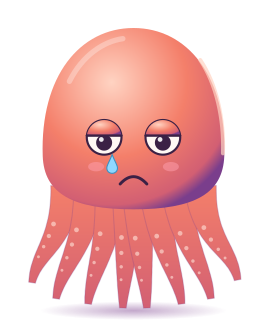
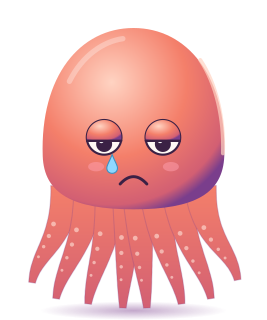
fix(octopilot): tidy the octopus mod after review
Cut the bubble's markdown at word and line boundaries with open markup closed,
and test it under node. Redraw only when shown state changes, keep the first
art frame opaque, time kitchen moods per event as feed.ts does, and ignore the
app-written gpui-kit.d.ts and jsconfig.json. Drop the unused 160 px PNGs.

Changed region(s): [[0.2996, 0.375, 0.4794, 0.5], [0.5393, 0.375, 0.6891, 0.5]]

diff --git a/ai/octopilot/herdr-app/mods/octopilot-octopus/main.js b/ai/octopilot/herdr-app/mods/octopilot-octopus/main.js
@@ -1,13 +1,11 @@
-// The messenger as a reluctant octopus: a floating window with the octopus, a
-// speech bubble holding the orchestrator's last message and the kitchen's last
-// lines. Click the octopus to peek the messenger's terminal, the bubble to read
-// the whole message, – to fold the bubble, ✕ to close.
-// Props: { fixture?, dir?, state_dir?, overlay? }, or for the full-text dialog
-// { full: true, text, status }.
+// The messenger as an octopus: poses from the speech and kitchen state, and a bubble
+// with the last message, the kitchen log and the pan count. Props: { fixture?, dir?, state_dir?, overlay? }.
+// For the full-text dialog: { full: true, text, status, overlay }.
 
 import { View, div, image } from "gpui-kit";
 import { v_flex, h_flex, TextView } from "gpui-base";
 import { exec, readTextFile, run, theme, props, shared, home, window, openOverlay, closeOverlay, checking } from "herdr";
+import { clip } from "./clip.js";
 
 const OCTO_W = 125;
 const OCTO_H = 150;
@@ -15,18 +13,17 @@ const BUBBLE_W = 250;
 const FAST_MS = 2000;
 const SLOW_MS = 10000;
 const TALK_MS = 4000;
-const MOOD_S = 5;
 const DOZE_S = 600;
 const LOG_LINES = 4;
-const MAX_LINES = 6;
-const MAX_CHARS = 280;
 
 const WORD = { working: "working", blocked: "needs you", idle: "idle", done: "finished", offline: "offline", paused: "paused" };
 const DOT = { working: "working", blocked: "blocked", idle: "idle", done: "done", offline: "unknown", paused: "idle" };
-// The kitchen's mood names (scene.ts) as poses; only the first group shows for a while.
-const MOOD_POSE = { happy: "happy", serve: "happy", worried: "worried", sad: "sad", surprised: "surprised", flip: "working", pour: "working", busy: "working", sleep: "sleeping", doze: "doze", idle: "idle" };
-const TRANSIENT = new Set(["happy", "serve", "worried", "sad", "surprised"]);
-// Poses whose frames cross-fade back and forth: [frame names, cycle ms].
+// Kitchen moods (scene.ts) that show a pose for a while; the rest of the moods come from status.
+const MOOD_POSE = { happy: "happy", serve: "happy", worried: "worried", sad: "sad", surprised: "surprised", flip: "working", pour: "working", sleep: "sleeping" };
+// How long each event's mood shows, from feed.ts: by event kind, else by mood for a report.
+const KIND_MS = { tick: 2500, spawn: 2500, sent: 1500, request: 2000, cleanup: 3500, merged: 3500, pause: 2000, resume: 1500, round: 2000, reviewed: 2000, capped: 2500, feedback: 1500, reboot: 2000, decline: 1500, untrack: 1500, detach: 1500, track: 2000 };
+const MOOD_MS = { happy: 4000, worried: 3000, sad: 4500, surprised: 2000, serve: 3500, flip: 2000, pour: 2500, sleep: 2000 };
+// Poses whose second frame fades in and out over the first: [frame names, cycle ms].
 const FLIPS = {
   talking: [["talking-0", "talking-1"], 360],
   working: [["working-0", "working-1"], 1200],
@@ -47,25 +44,20 @@ function pick(prop, sharedKey, fallback) {
 const octopilotDir = () => pick("dir", "octopilot.dir", `${home()}/.dotfiles/ai/octopilot`);
 const stateDir = () => pick("state_dir", "octopilot.state_dir", `${home()}/.local/state/octopilot`);
 
+const artPath = (name) => `mods/octopilot-octopus/art/png/${name}-320.png`;
+
 // The art in mods/octopilot-octopus/art/png, 320 px tall, shown at OCTO_H.
 function art(name) {
-  return image(`mods/octopilot-octopus/art/png/${name}-320.png`).w(OCTO_W).h(OCTO_H).flex_none();
+  return image(artPath(name)).w(OCTO_W).h(OCTO_H).flex_none();
 }
 
-// Two poses cross-fading back and forth forever: native motion, no redraws.
-function flip(names, period) {
-  return div().relative().flex_none().w(OCTO_W).h(OCTO_H).children(
-    names.map((name, i) =>
-      image(`mods/octopilot-octopus/art/png/${name}-320.png`).absolute().top(0).left(0).w(OCTO_W).h(OCTO_H)
-        .loop("opacity", { from: i === 0 ? 1 : 0, to: i === 0 ? 0 : 1, period })));
-}
-
-// Long messages are cut to a few lines; the bubble opens the rest.
-function clip(text) {
-  const lines = text.split("\n");
-  if (lines.length <= MAX_LINES && text.length <= MAX_CHARS) return text;
-  const cut = lines.slice(0, MAX_LINES).join("\n").slice(0, MAX_CHARS).trimEnd();
-  return `${cut} …*more*`;
+// The first frame stays put; the second fades in and out over it, natively.
+function flip([first, second], period) {
+  return div().relative().flex_none().w(OCTO_W).h(OCTO_H).children([
+    image(artPath(first)).w(OCTO_W).h(OCTO_H),
+    image(artPath(second)).absolute().top(0).left(0).w(OCTO_W).h(OCTO_H)
+      .loop("opacity", { from: 0, to: 1, period }),
+  ]);
 }
 
 const pad = (n) => String(n).padStart(2, "0");
@@ -73,6 +65,8 @@ const clock = (at) => {
   const d = new Date(at * 1000);
   return `${pad(d.getHours())}:${pad(d.getMinutes())}`;
 };
+
+const eventMs = (ev) => KIND_MS[ev.kind] ?? MOOD_MS[ev.mood] ?? 0;
 
 export default class Octopus extends View {
   init(_props, cx) {
@@ -84,27 +78,41 @@ export default class Octopus extends View {
     this.talkGen = 0;
     this.sigh = false;
     this.collapsed = false;
+    this.sig = null;
+    this.shownMood = null;
     if (checking() || props()?.full) return;
     this.watch(cx);
     this.sighs(cx);
   }
 
   // Polls the messenger and the kitchen: fast while the window shows, slow while hidden.
+  // Redraws only when something shown changed, and once when a kitchen mood ends.
   watch(cx) {
     cx.spawn(async (cx) => {
       for (;;) {
         await this.poll(cx);
-        cx.notify();
+        const sig = this.signature();
+        const mood = this.activeMood();
+        if (sig !== this.sig || (this.shownMood && !mood)) cx.notify();
+        this.sig = sig;
+        this.shownMood = mood;
         await cx.sleep(window()?.visible === false ? SLOW_MS : FAST_MS);
       }
     });
   }
 
-  // An occasional sigh: the second idle frame for a moment.
+  signature() {
+    const h = this.view?.header;
+    return [this.seq, this.data?.status, this.data?.paused, this.error, this.newest()?.at,
+      h?.active, h?.max_active, h?.paused].join("|");
+  }
+
+  // An occasional sigh: the second idle frame for a moment, only while idle and shown.
   sighs(cx) {
     cx.spawn(async (cx) => {
       for (;;) {
         await cx.sleep(7000 + Math.random() * 5000);
+        if (window()?.visible === false || this.pose() !== "idle") continue;
         this.sigh = true;
         cx.notify();
         await cx.sleep(1600);
@@ -173,17 +181,24 @@ export default class Octopus extends View {
     return best;
   }
 
+  // The pose of the newest kitchen event, while its time is not up.
+  activeMood() {
+    const ev = this.newest();
+    if (!ev || !MOOD_POSE[ev.mood]) return null;
+    return Date.now() / 1000 - ev.at < eventMs(ev) / 1000 ? MOOD_POSE[ev.mood] : null;
+  }
+
   pose() {
     if (this.error || this.data?.status === "offline") return "offline";
     if (!this.data) return "idle";
     if (this.talking) return "talking";
     if (this.data.status === "blocked") return "blocked";
     if (this.data.paused || this.view?.header?.paused) return "sleeping";
-    const ev = this.newest();
-    const age = ev ? Date.now() / 1000 - ev.at : 0;
-    if (ev && TRANSIENT.has(ev.mood) && age < MOOD_S) return MOOD_POSE[ev.mood];
+    const mood = this.activeMood();
+    if (mood) return mood;
     if (this.data.status === "working") return "working";
-    if (ev && age > DOZE_S) return "doze";
+    const ev = this.newest();
+    if (ev && Date.now() / 1000 - ev.at > DOZE_S) return "doze";
     return "idle";
   }
 
@@ -238,12 +253,12 @@ export default class Octopus extends View {
     const muted = (text) => div().text_size(12).text_color(t.muted).child(text);
     if (this.error) return muted(`Can't reach the messenger: ${this.error}`);
     if (!d) return muted("Waiting for the messenger…");
-    if (!d.text) return muted("The messenger hasn't said anything yet.");
+    if (!d.text) return muted(d.status === "offline" ? "The messenger is offline." : "The messenger hasn't said anything yet.");
     return div().text_size(13).text_color(t.foreground)
       .child(TextView.markdown("octopilot-speech", clip(d.text)).raw_html(false));
   }
 
-  // The last kitchen lines, oldest dim, the newest green (good), red (bad) or plain.
+  // The last kitchen lines: older ones dim, the newest green (good), red (bad) or plain.
   logLines(t) {
     const lines = [...this.kitchen()].sort((a, b) => a.at - b.at).slice(-LOG_LINES);
     if (!lines.length) return null;
@@ -281,7 +296,7 @@ export default class Octopus extends View {
               h_flex().gap(2).items_center().children([
                 pans ? div().text_size(11).text_color(t.dim).child(pans) : null,
                 this.button(t, "fold", "–", (cx) => { this.collapsed = true; cx.notify(); }),
-                this.button(t, "close", "✕", () => closeOverlay(p.overlay)),
+                p.overlay ? this.button(t, "close", "✕", () => closeOverlay(p.overlay)) : null,
               ].filter(Boolean)),
             ]),
             this.bubbleBody(t),
@@ -293,10 +308,11 @@ export default class Octopus extends View {
   renderFull(p) {
     const t = theme();
     return v_flex().size_full().p(16).gap(10).bg(t.popover).children([
-      h_flex().justify_between().items_center().flex_none()
-        .child(div().text_size(13).font_semibold().text_color(t.foreground)
-          .child(`Messenger · ${WORD[p.status] ?? p.status ?? ""}`))
-        .child(this.button(t, "close", "✕", () => closeOverlay(p.overlay))),
+      h_flex().justify_between().items_center().flex_none().children([
+        div().text_size(13).font_semibold().text_color(t.foreground)
+          .child(`Messenger · ${WORD[p.status] ?? p.status ?? ""}`),
+        p.overlay ? this.button(t, "close", "✕", () => closeOverlay(p.overlay)) : null,
+      ].filter(Boolean)),
       div().id("speech-full").flex_1().overflow_y_scrollbar().text_size(13).text_color(t.foreground)
         .child(TextView.markdown("octopilot-speech-full", p.text ?? "").raw_html(false)),
     ]);

diff --git a/ai/octopilot/herdr-app/mods/octopilot-octopus/clip.js b/ai/octopilot/herdr-app/mods/octopilot-octopus/clip.js
@@ -1,0 +1,23 @@
+// Cuts a markdown message for the bubble at a word or line boundary, closing any
+// fence or emphasis the cut left open, so the rest still renders.
+export const MAX_LINES = 6;
+export const MAX_CHARS = 280;
+
+const count = (text, marker) => text.split(marker).length - 1;
+
+export function clip(text, maxLines = MAX_LINES, maxChars = MAX_CHARS) {
+  if (text.split("\n").length <= maxLines && text.length <= maxChars) return text;
+  let cut = text.split("\n").slice(0, maxLines).join("\n");
+  if (cut.length > maxChars) {
+    cut = cut.slice(0, maxChars);
+    // Back up to the last space when the cut landed inside a word.
+    const word = cut.search(/\s\S*$/);
+    if (word > maxChars / 2) cut = cut.slice(0, word);
+  }
+  cut = cut.trimEnd();
+  if (count(cut, "```") % 2) return `${cut}\n\`\`\`\n…*more*`;
+  for (const marker of ["`", "**", "*", "_"]) {
+    if (count(cut, marker) % 2) cut = cut.slice(0, cut.lastIndexOf(marker)).trimEnd();
+  }
+  return `${cut} …*more*`;
+}

diff --git a/ai/octopilot/herdr-app/mods/octopilot-octopus/art/make.py b/ai/octopilot/herdr-app/mods/octopilot-octopus/art/make.py
@@ -2,8 +2,7 @@
 """Draws the messenger octopus poses as SVG, one file per frame.
 
 `python3 make.py` rewrites art/svg/*.svg. `--png` also renders
-art/png/<name>-160.png and -320.png (160 and 320 px tall) with inkscape,
-or magick when inkscape is missing.
+art/png/<name>-320.png (320 px tall) with inkscape, or magick when inkscape is missing.
 """
 
 import math
@@ -40,17 +39,17 @@ FRAMES = {
                       ends={0: (18, 112), 7: (188, 92)}),
     "blocked-1": dict(lid=0, pupil=(-1.5, 0), pupil_r=3.5, mouth="o", alarm=True, dy=-1,
                       ends={0: (16, 116), 7: (184, 100)}),
-    "sleeping-0": dict(closed=True, mouth="flat", dy=0, z=[(150, 62, 9), (164, 46, 6)]),
-    "sleeping-1": dict(closed=True, mouth="flat", dy=-2, z=[(152, 54, 12), (168, 34, 8)]),
+    "sleeping-0": dict(closed=True, mouth="flat", dy=0, z=[(146, 66, 12), (164, 44, 9)]),
+    "sleeping-1": dict(closed=True, mouth="flat", dy=-2, z=[(148, 56, 16), (168, 30, 12)]),
     "offline-0": dict(closed=True, mouth="flat", palette="grey"),
     "happy-0": dict(eye="happy", mouth="smile", ends={0: (18, 176), 7: (182, 184)}),
     "happy-1": dict(eye="happy", mouth="smile", ends={0: (24, 164), 7: (176, 168)}, sparkle=True, dy=-2),
     "worried-0": dict(lid=0.15, pupil=(-1.5, -2), brows=True, mouth="wavy"),
     "worried-1": dict(lid=0.15, pupil=(-1.5, -2), brows=True, mouth="wavy", dy=-1, sweat=True),
-    "sad-0": dict(lid=0.45, pupil=(0, 4), mouth="frown_deep"),
-    "sad-1": dict(lid=0.45, pupil=(0, 4), mouth="frown_deep", tear=True, dy=-1),
-    "surprised-0": dict(lid=0, pupil_r=3.5, mouth="o_big", alarm=True),
-    "surprised-1": dict(lid=0, pupil=(0, -1), pupil_r=4.5, mouth="o_big", alarm=True, dy=-2),
+    "sad-0": dict(lid=0.6, pupil=(0, 5), mouth="frown_deep", tear=True),
+    "sad-1": dict(lid=0.6, pupil=(0, 5), mouth="frown_deep", tear=True, dy=-1),
+    "surprised-0": dict(lid=0, pupil_r=3.5, mouth="o_big", burst=True),
+    "surprised-1": dict(lid=0, pupil=(0, -1), pupil_r=4.5, mouth="o_big", burst=True, dy=-2),
     "doze-0": dict(closed=True, mouth="flat", dy=-1),
 }
 
@@ -154,6 +153,12 @@ def sparkle(p):
             f'stroke="{p["ink"]}" stroke-width=".6"/>')
 
 
+def burst(p):
+    # Pop lines round the head: the surprise mark, where blocked gets the "!".
+    return (f'<path d="M150 40 L143 34 M160 30 L157 21 M172 30 L178 22 M182 42 L190 38" fill="none" '
+            f'stroke="{p["ink"]}" stroke-width="2.2" stroke-linecap="round"/>')
+
+
 def sweat():
     return ('<path d="M150 56 C156 66 160 72 160 78 A10 10 0 0 1 140 78 C140 72 144 66 150 56Z" '
             'fill="#8fd8ff" stroke="#3a8fc0" stroke-width=".8"/>'
@@ -170,7 +175,7 @@ def zs(items, p):
     out = []
     for x, y, s in items:
         out.append(f'<path d="M{x} {y} h{s} l-{s} {s} h{s}" fill="none" stroke="{p["ink"]}" '
-                   f'stroke-width="2" stroke-linejoin="round" opacity=".75"/>')
+                   f'stroke-width="2.4" stroke-linejoin="round" opacity=".75"/>')
     return "".join(out)
 
 
@@ -206,6 +211,8 @@ def draw(frame):
         extras.append(sweat())
     if frame.get("alarm"):
         extras.append(alarm(p))
+    if frame.get("burst"):
+        extras.append(burst(p))
     if frame.get("z"):
         extras.append(zs(frame["z"], p))
     return "\n".join([
@@ -253,11 +260,9 @@ def main(argv):
     if "--png" in argv:
         os.makedirs(png_dir, exist_ok=True)
         for name in FRAMES:
-            svg = os.path.join(svg_dir, f"{name}.svg")
-            for height in (160, 320):
-                png = os.path.join(png_dir, f"{name}-{height}.png")
-                render(svg, png, height)
-                print(png)
+            png = os.path.join(png_dir, f"{name}-320.png")
+            render(os.path.join(svg_dir, f"{name}.svg"), png, 320)
+            print(png)
 
 
 if __name__ == "__main__":

diff --git a/ai/octopilot/herdr-app/mods/octopilot-octopus/README.md b/ai/octopilot/herdr-app/mods/octopilot-octopus/README.md
@@ -27,7 +27,7 @@ Props, all optional: `dir` (the octopilot code dir, default `~/.dotfiles/ai/octo
 the reason in the bubble), `happy`, `worried`, `sad`, `surprised` (kitchen moods, the
 newest event for 5 s) and `doze` (no kitchen event for 10 minutes).
 The art is `art/make.py`: `python3 art/make.py --png` rewrites `art/svg/` and renders
-`art/png/<pose>-<n>-{160,320}.png` (inkscape, or magick without it).
+`art/png/<pose>-<n>-320.png` (inkscape, or magick without it).
 
 ## Testing without the backend
 
@@ -37,3 +37,5 @@ sample per status and `fixtures/state/view.json` a kitchen. Kitchen moods only s
 while their event is fresh, so set `at` to the current epoch to see them.
 
 `herdr-app check` runs without polling (`checking()`).
+
+`clip.js` (the bubble's cut) has node tests: `node --test test/clip.test.mjs`.
